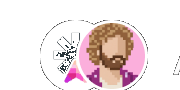
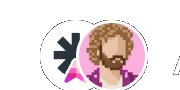
fix(shopos): clean Watching state PNGs + lock the 4 cards to equal height
Card 1 state PNGs
- previous gray-removal pass converted every #3a3a3a pixel and ate
  the asterisk strokes along the way, leaving black gunk around the
  sparkle. Redo as a flood fill from the edges only, so internal
  black pixels (asterisk, avatar outlines) stay intact.

Card heights
- 2x2 grid was letting Row 1 (small UI primitives) and Row 2 (big
  images) settle at different heights. Switch the grid to
  md:auto-rows-fr and bump every card's minHeight to 420 so all
  four quadrants are the same size, matching the Two doors pattern.

Card 3 plan card
- centered horizontally with mx-auto via flex justify-center so the
  empty card area balances on both sides; bumped width cap from 260
  to 300 so it reads bigger inside the now-taller card.

Changed region(s): [[0.2778, 0.3556, 0.4444, 0.8222]]

diff --git a/app/work/shopos/page.jsx b/app/work/shopos/page.jsx
@@ -1036,14 +1036,14 @@ export default function ShopOSCaseStudy() {
             you get a window, not a spinner.
           </Lead>
 
-          <div className="mt-12 grid grid-cols-1 gap-5 md:mt-16 md:grid-cols-2 md:gap-6">
+          <div className="mt-12 grid grid-cols-1 gap-5 md:mt-16 md:auto-rows-fr md:grid-cols-2 md:gap-6">
             {/* Card 1, Agents join in */}
             <article
               className="relative flex flex-col overflow-hidden rounded-3xl p-7 md:p-9"
               style={{
                 background:
                   "linear-gradient(160deg, #fcdece 0%, #fcb88f 45%, #fc8870 75%, #fc6972 100%)",
-                minHeight: 320,
+                minHeight: 420,
               }}
             >
               <h3 className="text-[18px] font-semibold leading-tight text-[#0a0a0a] md:text-[20px]">
@@ -1067,7 +1067,7 @@ export default function ShopOSCaseStudy() {
               style={{
                 background:
                   "linear-gradient(160deg, #fcdece 0%, #fcb88f 45%, #fc8870 75%, #fc6972 100%)",
-                minHeight: 320,
+                minHeight: 420,
               }}
             >
               <h3 className="text-[18px] font-semibold leading-tight text-[#0a0a0a] md:text-[20px]">
@@ -1135,7 +1135,7 @@ export default function ShopOSCaseStudy() {
               style={{
                 background:
                   "linear-gradient(160deg, #fcdece 0%, #fcb88f 45%, #fc8870 75%, #fc6972 100%)",
-                minHeight: 320,
+                minHeight: 420,
               }}
             >
               <h3 className="text-[18px] font-semibold leading-tight text-[#0a0a0a] md:text-[20px]">
@@ -1147,14 +1147,15 @@ export default function ShopOSCaseStudy() {
               </p>
               {/* Arc plan card — exported from Figma as a transparent
                   PNG so the white card and the pink sparkle keep the
-                  exact spec without rebuilding. */}
-              <div className="mt-auto pt-8">
+                  exact spec without rebuilding. Centered horizontally
+                  so the empty card area balances on both sides. */}
+              <div className="mt-auto flex justify-center pt-6">
                 <img
                   src="/images/shopos/the-plan-is-visible.png"
                   alt="An Arc plan card with three steps: Research websites with a magnifying-glass icon, Analyse results with a framed search icon, and Create report with a notebook icon. A pink sparkle floats at the top-right of the card."
                   width={400}
                   height={320}
-                  className="block h-auto w-[78%] max-w-[260px]"
+                  className="block h-auto w-[85%] max-w-[300px]"
                   loading="lazy"
                   decoding="async"
                 />
@@ -1167,7 +1168,7 @@ export default function ShopOSCaseStudy() {
               style={{
                 background:
                   "linear-gradient(160deg, #fcdece 0%, #fcb88f 45%, #fc8870 75%, #fc6972 100%)",
-                minHeight: 320,
+                minHeight: 420,
               }}
             >
               <h3 className="text-[18px] font-semibold leading-tight text-[#0a0a0a] md:text-[20px]">
